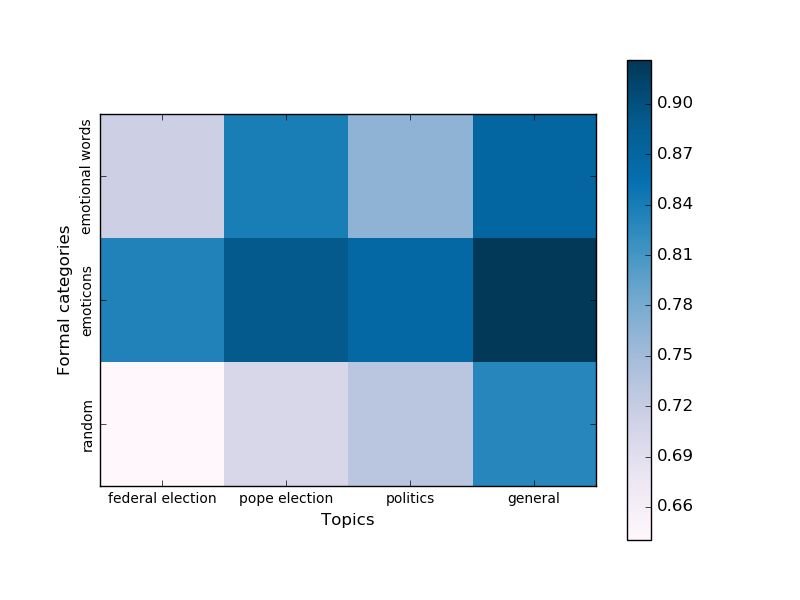
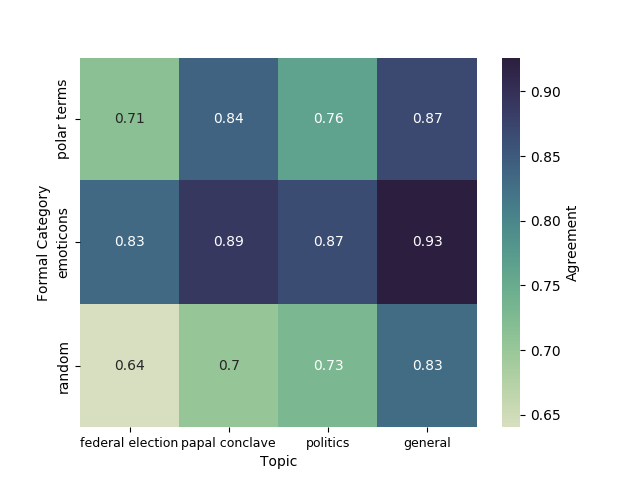
regenerated corpus heatmaps

diff --git a/sentiment_corpus.tex b/sentiment_corpus.tex
@@ -1186,7 +1186,7 @@ these computations are shown in Table~\ref{tbl:attr-agrmnt}.
     \end{tabular}
     \egroup
     \caption{Inter-annotator agreement on polarity and intensity of
-      sentiments and emotional expressions}
+      sentiments and polar terms}
     \label{tbl:attr-agrmnt}
   \end{center}
 \end{table}
@@ -1245,11 +1245,11 @@ and~\ref{snt:fig:crp-sent-emo-agr}).
 \begin{subfigure}{.5\textwidth}
   \centering
   \includegraphics[width=\linewidth]{img/emo-expression_stat.png}
-  \caption{\texttt{Emotional expressions}}\label{snt:fig:crp-sent-emo-distr-b}
+  \caption{\texttt{Polar Terms}}\label{snt:fig:crp-sent-emo-distr-b}
 \end{subfigure}
 }
-\caption{Distribution of sentiments and polar expressions across
-  topics and formal categories}\label{snt:fig:crp-sent-emo-distr}
+\caption{Distribution of sentiments and polar terms across topics and
+  formal categories}\label{snt:fig:crp-sent-emo-distr}
 \end{figure*}
 
 \begin{figure*}[htbp!]
@@ -1263,12 +1263,11 @@ and~\ref{snt:fig:crp-sent-emo-agr}).
 \begin{subfigure}{.5\textwidth}
   \centering
   \includegraphics[width=\linewidth]{img/emo-expression_agreement.png}
-  \caption{\texttt{Emotional expressions}}
+  \caption{\texttt{Polar Terms}}
 \end{subfigure}
 }
-\caption{Inter-annotator agreement on sentiments and polar expressions
-  across topics and formal
-  categories}\label{snt:fig:crp-sent-emo-agr}
+\caption{Inter-annotator agreement on sentiments and polar terms
+  across topics and formal categories}\label{snt:fig:crp-sent-emo-agr}
 \end{figure*}
 
 As can be seen from the results, the stratification by topics and
